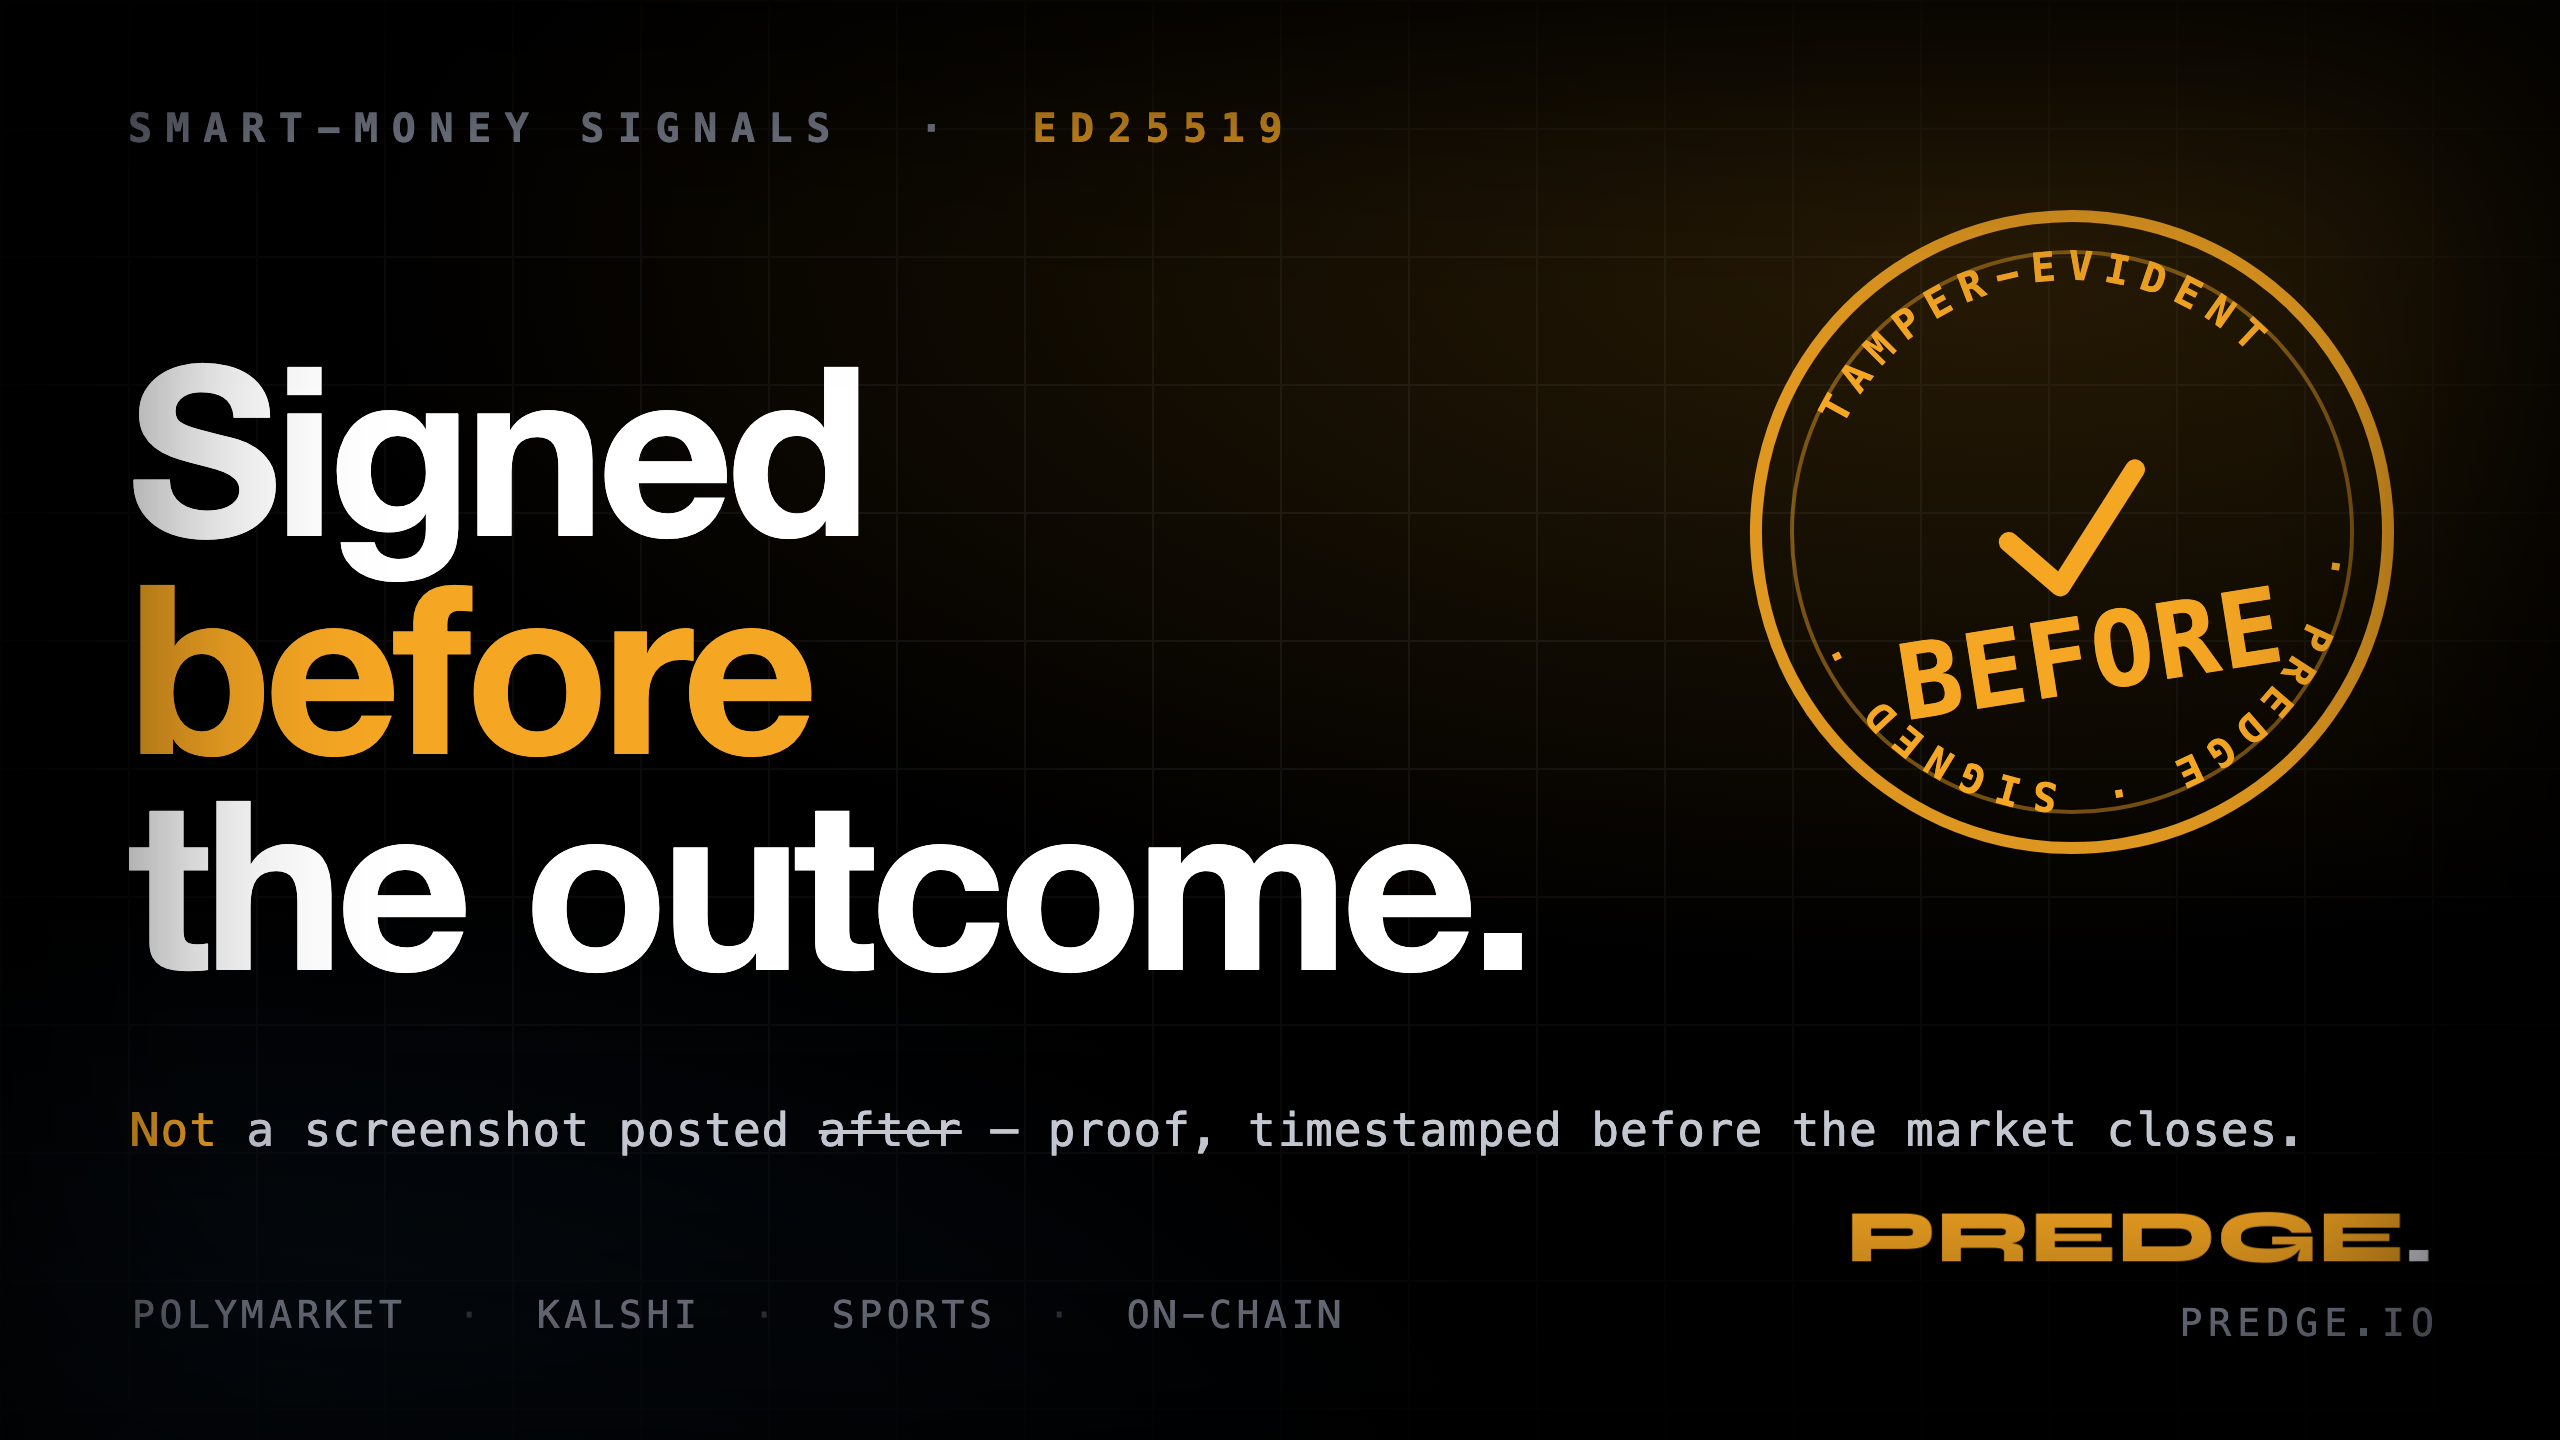
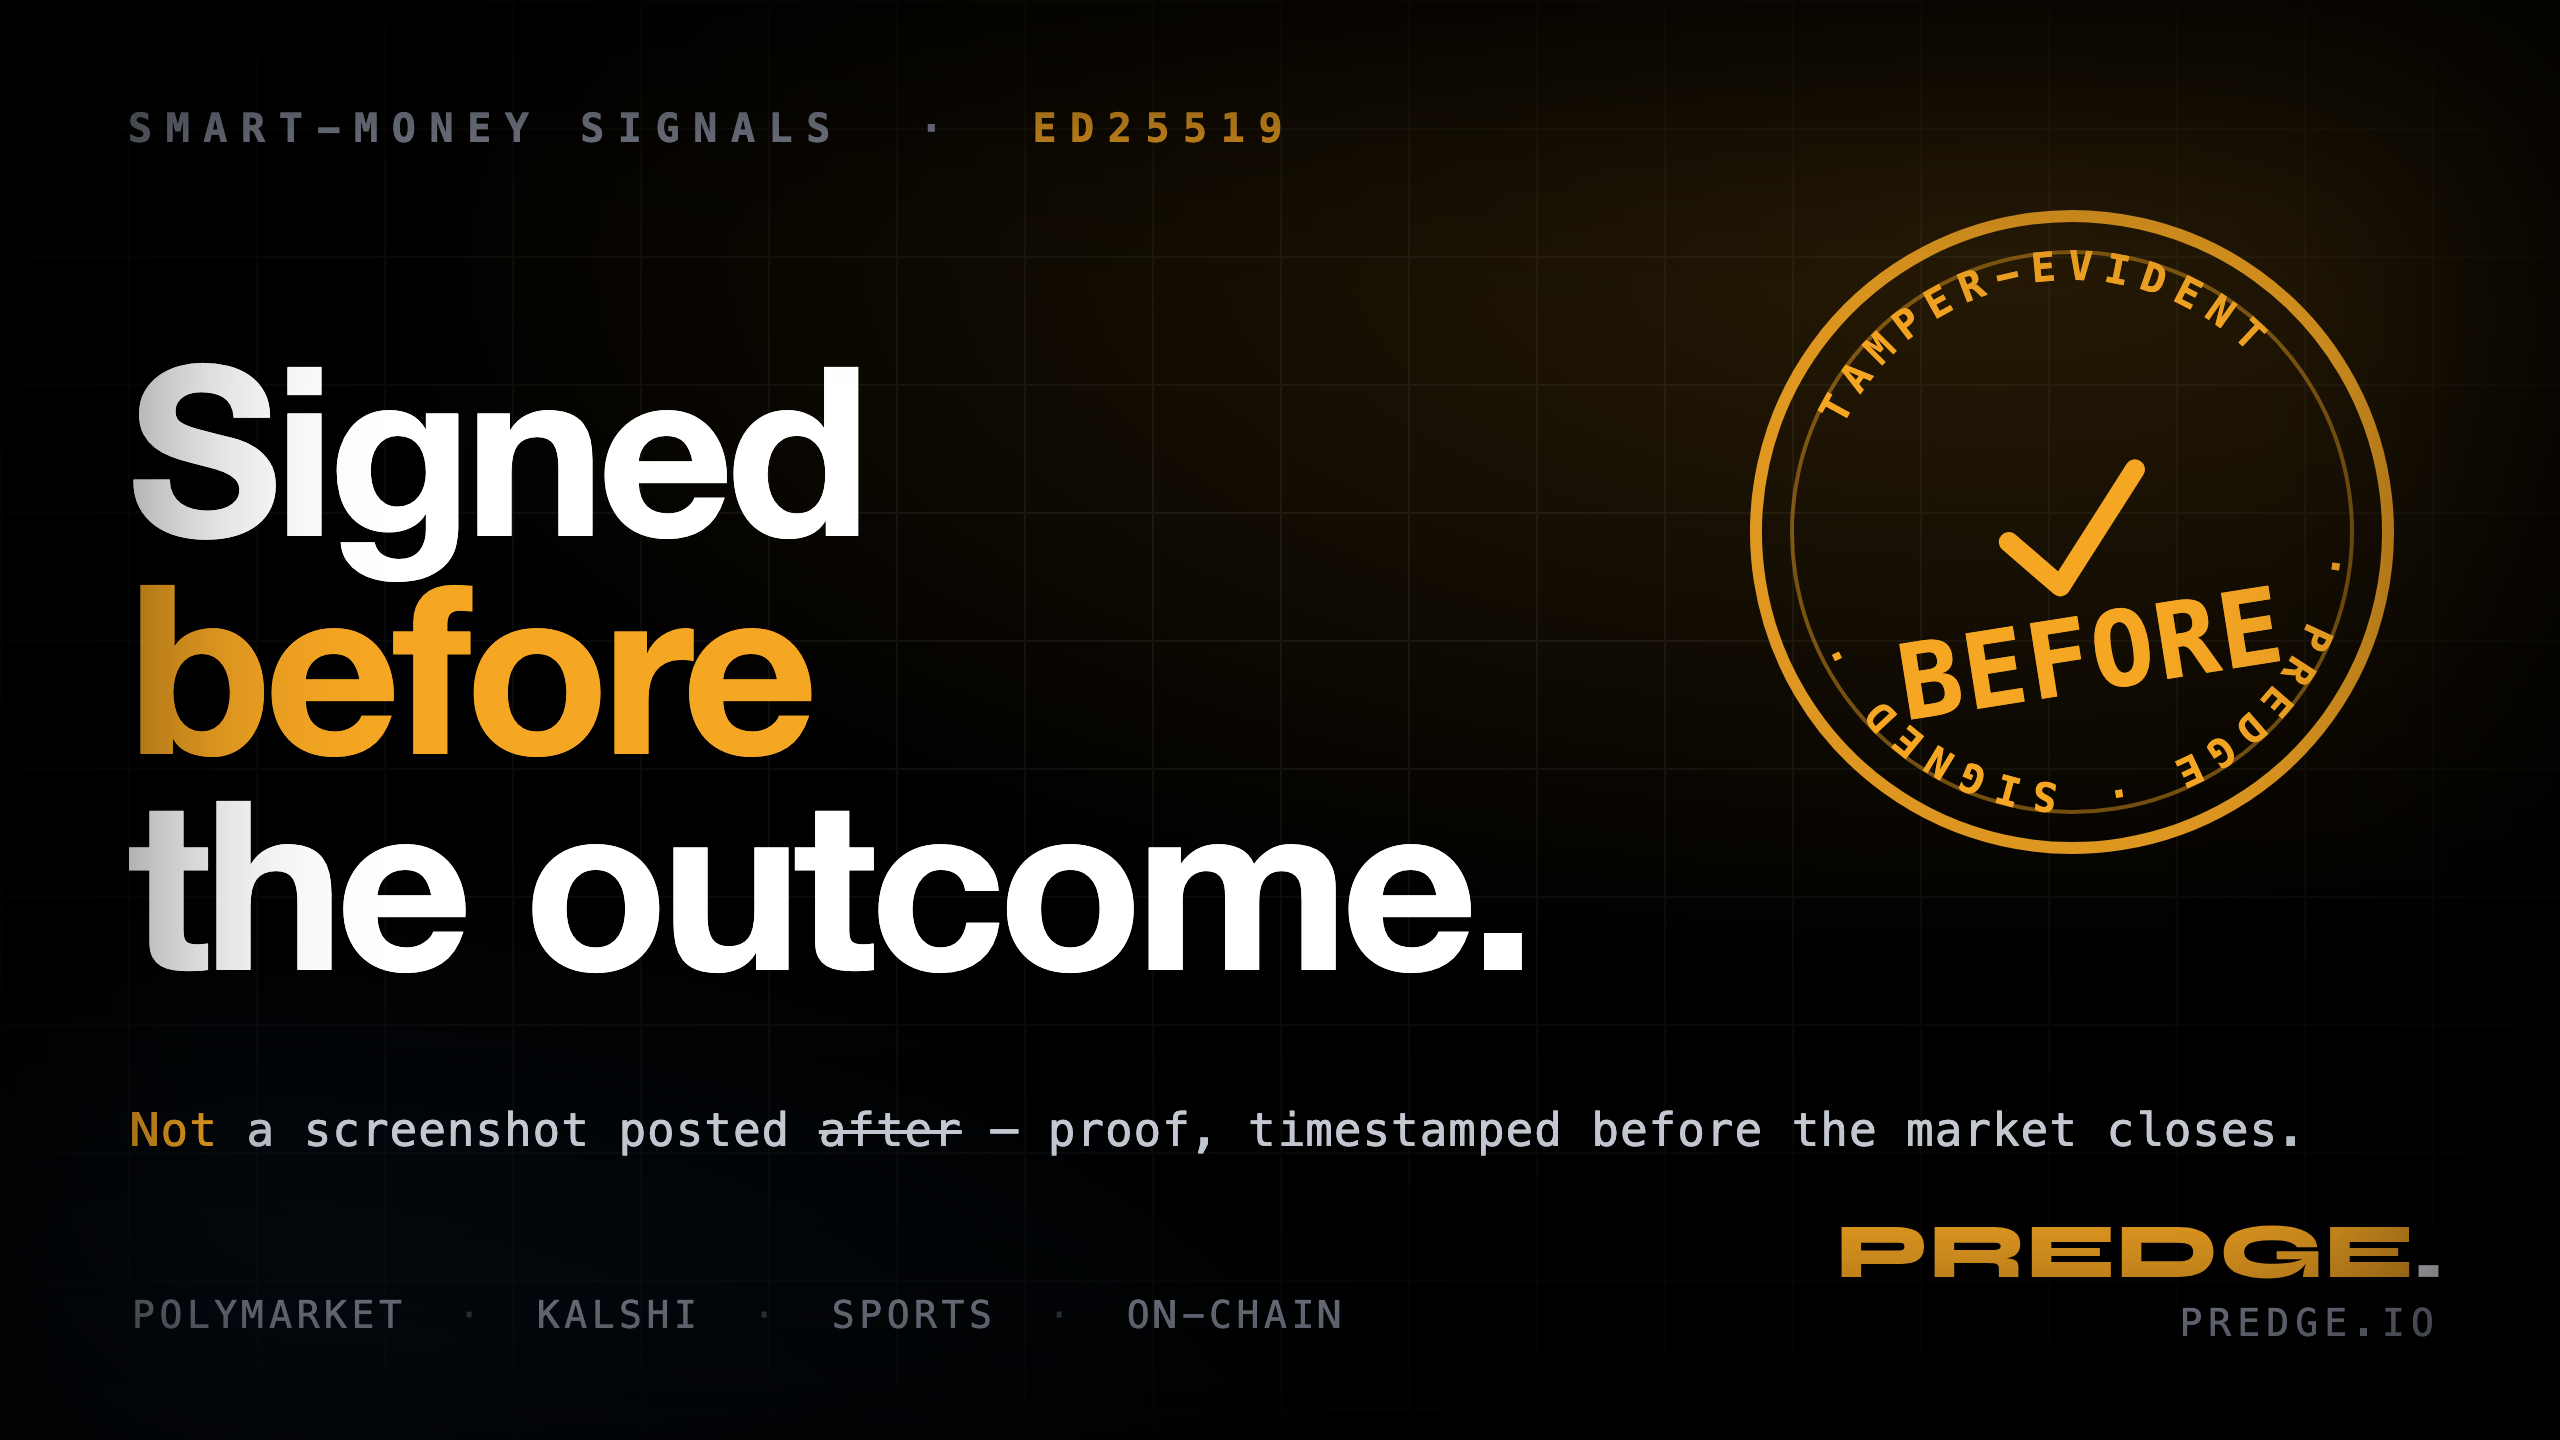
feat(brand): outline Syne wordmark to curves — clean vector SVG
- add ad-assets/predge-wordmark.svg: header logotype outlined to <path>
  (Syne ExtraBold @wght800, font-independent, scalable). PREDGE #f5a623 + dot #e8e8f0
- logoClose (ad final frame) + thumbnail now use the vector wordmark
- keep predge-wordmark.png as the raster export
- AD_SPEC: note svg=primary, png=raster, how to regenerate the outline

Changed region(s): [[0.7188, 0.8438, 0.9688, 0.9062]]

diff --git a/ad.html b/ad.html
@@ -431,7 +431,7 @@
   </div>`;}
 
   function logoClose(){return `<div class="logo">
-    <img class="fullwm anim-pop" src="ad-assets/predge-wordmark.png" alt="PREDGE" style="width:min(760px,62vw);height:auto;">
+    <img class="fullwm anim-pop" src="ad-assets/predge-wordmark.svg" alt="PREDGE" style="width:min(760px,62vw);height:auto;">
     <div class="url anim-rise">predge.io</div>
   </div>`;}
 

diff --git a/thumb.html b/thumb.html
@@ -76,7 +76,7 @@
   </div>
 
   <div class="wm">
-    <img src="ad-assets/predge-wordmark.png" alt="PREDGE">
+    <img src="ad-assets/predge-wordmark.svg" alt="PREDGE">
     <div class="u">PREDGE.IO</div>
   </div>
 </div>

diff --git a/AD_SPEC.md b/AD_SPEC.md
@@ -97,11 +97,15 @@ Legend: `▸` = text card, `▪` = product-screen mockup, **amber** = the amber 
 
 ## Logos
 
-- **Canonical wordmark** — `ad-assets/predge-wordmark.png` (transparent, 5084×736).
-  This is the **real predge.io header logotype**: **Syne ExtraBold**, `PREDGE`
-  in amber `#f5a623` + `.` in `#e8e8f0`. Used in `logoClose` (final frame) and the
-  YouTube thumbnail. **Always use this file for the wordmark** — do not retype it
-  in another font. Re-render with `/tmp/hwm.html` (Syne via Google Fonts) if needed.
+- **Canonical wordmark** — the **real predge.io header logotype**: **Syne ExtraBold**,
+  `PREDGE` in amber `#f5a623` + `.` in `#e8e8f0`.
+  - `ad-assets/predge-wordmark.svg` — **primary**, Syne outlined to `<path>` curves
+    (font-independent, scalable). Used in `logoClose` (final frame) + the thumbnail.
+  - `ad-assets/predge-wordmark.png` — raster export (transparent, 5084×736) for
+    places that need a bitmap.
+  - **Always use these files for the wordmark** — never retype it in another font.
+    Regenerate the outline: instantiate `Syne[wght].ttf` at wght=800 in a clean
+    arm64 fonttools venv, draw glyphs `PREDGE.` with SVGPathPen (+.01em tracking).
 - **Official SVGs** (in `ad-assets/logos/`): Solana, Polygon, Bitcoin.
 - **Rebuilt SVGs** (inline in `ad.html`, brand-accurate from the owner's references):
   Base (circle+bar), Arc (arch), Polymarket (bowtie), Kalshi (green mark).
